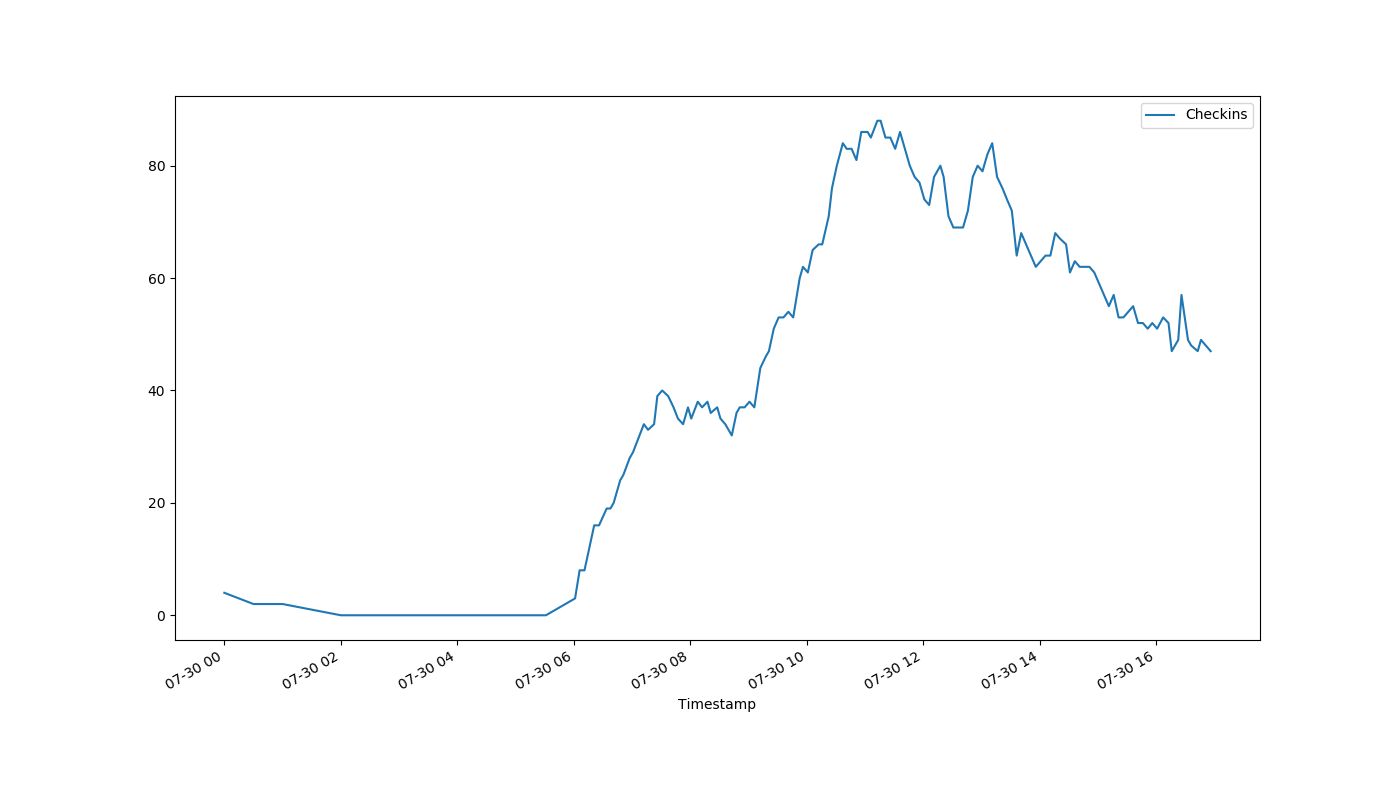
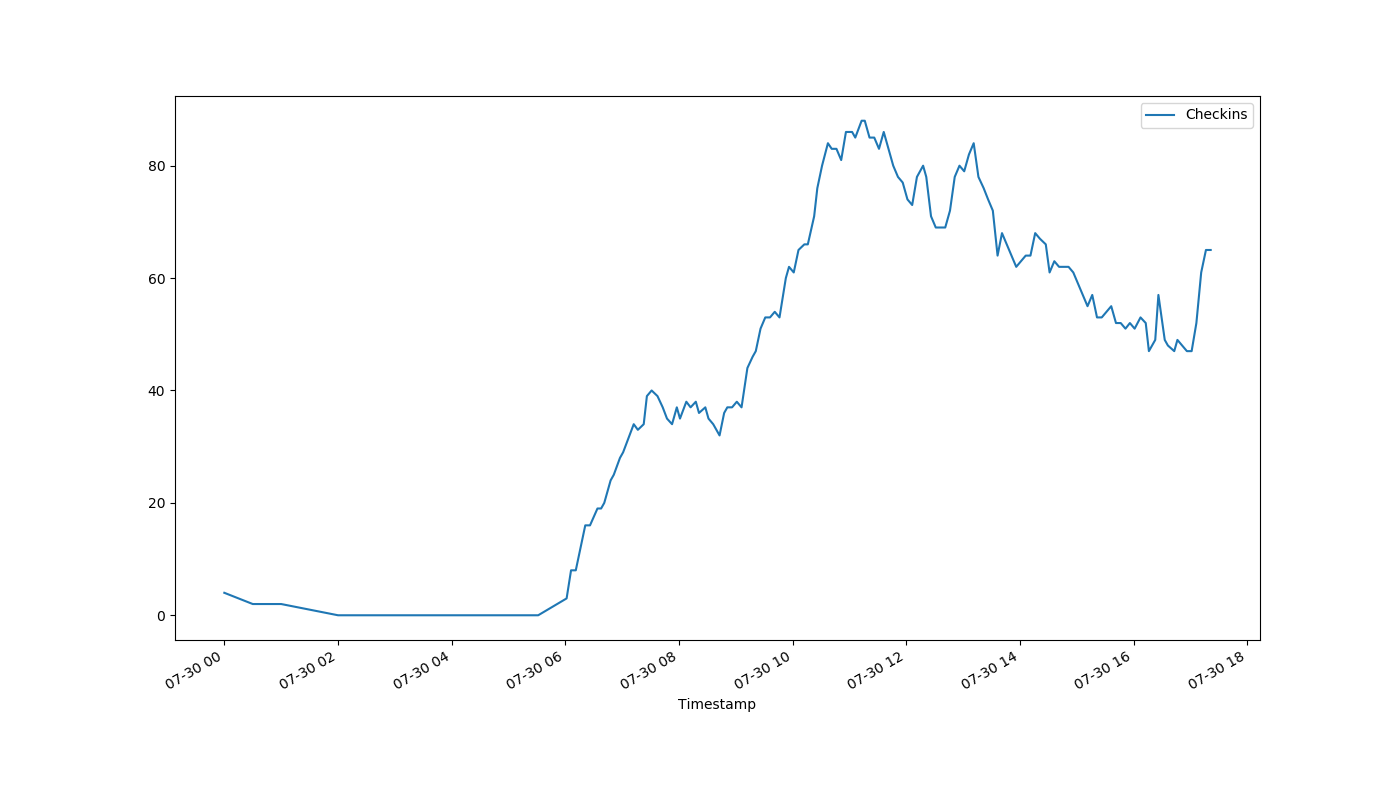
auto-Jul-30-17:23:28

diff --git a/index.html b/index.html
@@ -1,1 +1,1 @@
-<!DOCTYPE html><html><head><meta http-equiv="refresh" content="30"><link rel='stylesheet' href='holmcurrent.css'></head><body><p id='count'>47</p><div id='graph-wrap'><img id='graph' src='holmgraph-Jul-30.png'></div><p id='updated'>Last updated 16:57:02 / 16:56:10</p></body></html>
+<!DOCTYPE html><html><head><meta http-equiv="refresh" content="30"><link rel='stylesheet' href='holmcurrent.css'></head><body><p id='count'>65</p><div id='graph-wrap'><img id='graph' src='holmgraph-Jul-30.png'></div><p id='updated'>Last updated 17:22:03 / 17:21:16</p></body></html>
